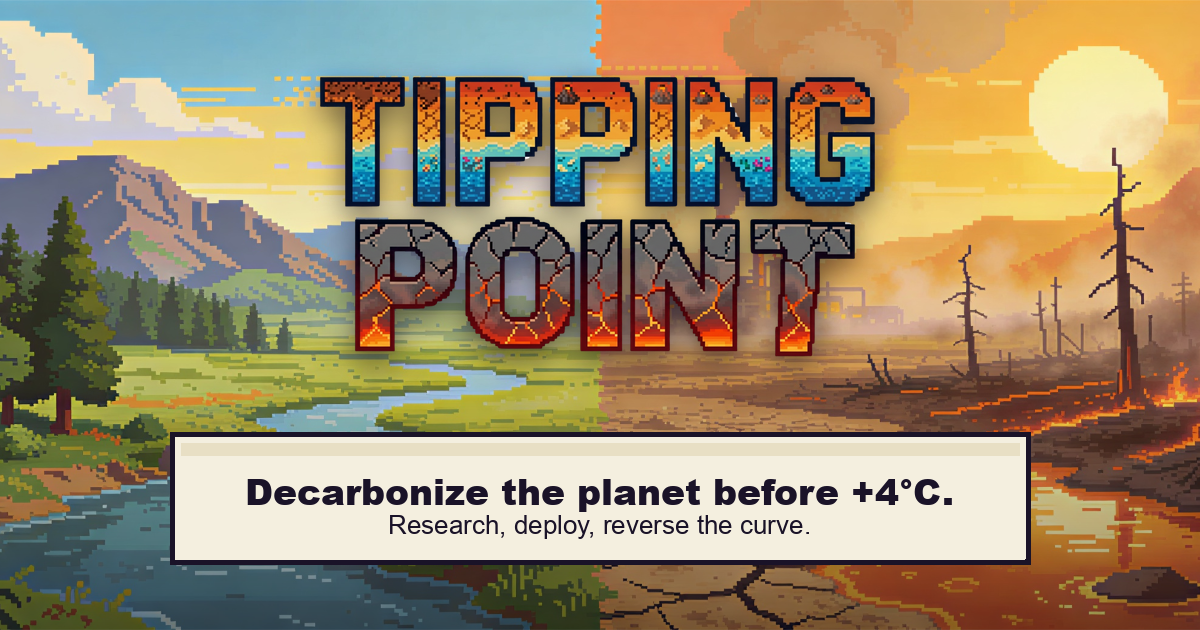
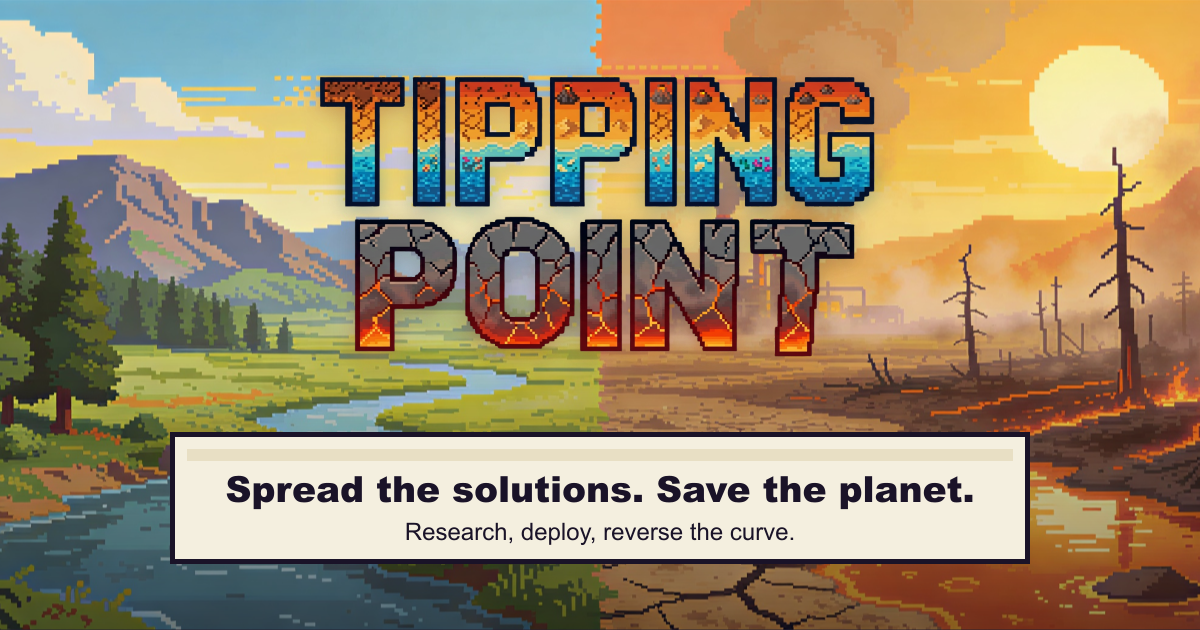
Add mobile/touch support and refresh OG image tagline
Introduces bottom-sheet drawers for the research and country panels on narrow
viewports, a portrait rotate prompt for touch devices, and touch-target
ergonomics (44px minimums) scoped behind (pointer: coarse) so desktop is
untouched. Landscape-primary is set in the webmanifest to match.

Replaces the OG image tagline "Decarbonize the planet before +4°C." with
"Spread the solutions. Save the planet." and updates the alt text + PNG.

diff --git a/src/styles/main.css b/src/styles/main.css
@@ -2759,4 +2759,215 @@
     .wildfire-layer { display: none; }
   }
 
+  /* ═══════════════════════════════════════════════════════════════════════
+     MOBILE / TOUCH SUPPORT
+     ───────────────────────────────────────────────────────────────────────
+     Every rule in this section lives inside a media query so desktop is
+     literally untouched. Three triggers:
+       - (max-width: 900px)              → narrow layout (grid collapse, drawers)
+       - (pointer: coarse)               → touch ergonomics (bigger targets)
+       - (pointer: coarse) + portrait    → block play, show rotate prompt
+     Mobile FABs + rotate overlay + drawer backdrop are hidden by default below,
+     shown only inside the mobile queries. ═══════════════════════════════ */
 
+  /* Default-hidden mobile chrome. */
+  .mobile-fab { display: none; }
+  #mobile-drawer-backdrop { display: none; }
+  #rotate-overlay { display: none; }
+
+  /* ── Rotate prompt (portrait touch only) ────────────────────────────── */
+  @media (pointer: coarse) and (orientation: portrait) {
+    #rotate-overlay {
+      position: fixed; inset: 0;
+      display: flex; align-items: center; justify-content: center;
+      padding: 40px 24px; text-align: center; z-index: 9999;
+      background: var(--surface-3); color: var(--surface-ink);
+      font-family: var(--font-body);
+      /* Safe-area padding for notched devices in portrait. */
+      padding-top: max(40px, env(safe-area-inset-top));
+      padding-bottom: max(40px, env(safe-area-inset-bottom));
+    }
+    #rotate-overlay .rotate-card {
+      max-width: 420px; background: var(--surface-2); color: var(--text);
+      border: 4px solid var(--line); padding: 28px 24px;
+      box-shadow: var(--shadow-lg);
+    }
+    #rotate-overlay .rotate-icon {
+      font-size: 64px; line-height: 1; margin-bottom: 14px;
+      color: var(--line);
+      animation: gpRotateHint 2.6s ease-in-out infinite;
+    }
+    #rotate-overlay h2 {
+      margin: 0 0 12px; font-family: var(--font-display);
+      font-size: var(--t-head); letter-spacing: 1px; color: var(--line);
+    }
+    #rotate-overlay p {
+      margin: 0; font-size: var(--t-body); line-height: 1.5;
+    }
+    /* Block all other content from being seen/interacted with. */
+    body > *:not(#rotate-overlay) {
+      pointer-events: none;
+    }
+  }
+  @keyframes gpRotateHint {
+    0%, 100% { transform: rotate(0); }
+    45%, 55% { transform: rotate(90deg); }
+  }
+
+  /* ── Touch-device globals ─────────────────────────────────────────────
+     Disable double-tap-zoom and pull-to-refresh that would otherwise
+     interfere with map drag/zoom and drawer swipes. */
+  @media (pointer: coarse) {
+    html, body {
+      touch-action: manipulation;
+      overscroll-behavior: none;
+    }
+    #map-container {
+      /* Prevent browser pan/zoom gestures on the map itself — country taps
+         still fire via click. */
+      touch-action: none;
+    }
+  }
+
+  /* ── Touch target ergonomics ─────────────────────────────────────────
+     44×44 WCAG minimum. Applied only on coarse-pointer devices so desktop
+     button sizing is preserved. */
+  @media (pointer: coarse) {
+    .modal-close { width: 44px; height: 44px; font-size: 22px; }
+    .hud-toolbtn { min-width: 44px; min-height: 44px; }
+    .hud-speed { height: 44px; }
+    .hud-speed button { min-width: 48px; }
+    .rt-tab { min-height: 44px; }
+    .starter-select-btn, .intro-cta, .intro-cta-ghost, .pick-back,
+    .again, .end-share, .end-achievements,
+    .achievements-dismiss { min-height: 44px; }
+  }
+
+  /* ── Narrow-width layout (phone landscape, tablet portrait) ──────────
+     Game grid collapses to single column. Side panels escape the grid and
+     become bottom-sheet drawers, accessed via FABs. Triggered by width
+     (not pointer), so a resized desktop window also exercises this path —
+     which is useful for devs but harmless since FABs are only shown when
+     this media query applies. */
+  @media (max-width: 900px) {
+    /* Collapse game grid to single-column stack. */
+    #game {
+      grid-template-rows: 56px 26px 1fr 28px;
+      grid-template-columns: 1fr;
+      grid-template-areas:
+        "hud"
+        "news"
+        "map"
+        "status";
+      /* Safe-area on notched phones in landscape — notch sits on the left
+         or right, so we pad horizontally. */
+      padding-left: env(safe-area-inset-left);
+      padding-right: env(safe-area-inset-right);
+    }
+
+    /* Panels leave the grid flow, become fixed-position drawers that slide
+       up from the bottom. Off-screen by default; `.mobile-open` slides in. */
+    #left-panel, #right-panel {
+      position: fixed;
+      left: 0; right: 0; bottom: 0; top: auto;
+      width: 100%;
+      height: min(78vh, 520px);
+      z-index: 40;
+      border: 3px solid var(--line);
+      border-bottom: none;
+      transform: translateY(100%);
+      transition: transform 220ms cubic-bezier(0.25, 0.45, 0.4, 1);
+      box-shadow: 0 -8px 28px rgba(0, 0, 0, 0.35);
+      /* Override the desktop's grid-area placement. */
+      grid-area: auto;
+      /* Respect safe-area at the bottom when a drawer is open. */
+      padding-bottom: env(safe-area-inset-bottom);
+    }
+    #left-panel.mobile-open,
+    #right-panel.mobile-open {
+      transform: translateY(0);
+    }
+
+    /* Backdrop behind the open drawer. Dims the game, catches dismiss taps. */
+    #mobile-drawer-backdrop {
+      display: none;
+      position: fixed; inset: 0;
+      background: rgba(0, 0, 0, 0.48);
+      z-index: 35;
+      animation: gpFadeIn 180ms ease-out;
+    }
+    #mobile-drawer-backdrop.active { display: block; }
+
+    /* FABs: floating toggles that sit above the map. Left = Research drawer,
+       right = Country drawer. Only shown when #game is active. */
+    #game.active ~ .mobile-fab {
+      display: inline-flex;
+    }
+    .mobile-fab {
+      position: fixed;
+      bottom: calc(40px + env(safe-area-inset-bottom));
+      z-index: 32;
+      align-items: center; justify-content: center;
+      min-height: 44px; padding: 8px 14px;
+      background: var(--surface-2); color: var(--line);
+      border: 3px solid var(--line);
+      font-family: var(--font-display); font-size: var(--fs-d-xs);
+      font-weight: 700; letter-spacing: 1.5px; text-transform: uppercase;
+      box-shadow: var(--shadow);
+      cursor: pointer; border-radius: 0;
+    }
+    .mobile-fab:active { box-shadow: var(--shadow-press); filter: brightness(0.94); }
+    .mobile-fab-left  { left: calc(12px + env(safe-area-inset-left)); }
+    .mobile-fab-right { right: calc(12px + env(safe-area-inset-right)); }
+    /* Hide FABs while the matching drawer is open — the drawer itself is the
+       affordance to close (tap backdrop, or swipe down later). */
+    body.drawer-open-left  .mobile-fab-left,
+    body.drawer-open-right .mobile-fab-right { display: none; }
+
+    /* HUD compaction: stats row scrolls horizontally, chips shrink.
+       Everything still reachable; just not all on screen at once. */
+    .hud { padding: 0 6px; gap: 6px; }
+    .hud-stats {
+      overflow-x: auto;
+      scrollbar-width: none;
+      -webkit-overflow-scrolling: touch;
+    }
+    .hud-stats::-webkit-scrollbar { display: none; }
+    .hud-block { padding: 4px 8px; height: 40px; min-width: 74px; }
+    .hud-block.hud-pop { min-width: 140px; }
+    .hud-block > span { font-size: var(--fs-sm); }
+
+    /* Status bar compacts. */
+    #status-bar {
+      font-size: 11px; gap: 10px; padding: 0 10px;
+      padding-left: max(10px, env(safe-area-inset-left));
+      padding-right: max(10px, env(safe-area-inset-right));
+    }
+
+    /* Modal cards: drop the playful rotation, widen to viewport. */
+    .modal-card {
+      transform: none !important;
+      max-width: calc(100vw - 24px);
+      width: calc(100vw - 24px);
+      padding: 20px 18px;
+      max-height: calc(100vh - 32px);
+      overflow-y: auto;
+    }
+    .modal-card > .modal-close { transform: none; }
+    .modal-card > .modal-close:hover  { transform: translate(-1px, -1px); }
+    .modal-card > .modal-close:active { transform: translate(1px, 1px); }
+
+    /* Tutorial, end-card, country-select tweaks. */
+    .tutorial-card, .end-card { max-width: calc(100vw - 24px); }
+  }
+  @keyframes gpFadeIn { from { opacity: 0; } to { opacity: 1; } }
+
+  /* Very narrow (<600px) — extra compaction for small phones in landscape. */
+  @media (max-width: 600px) {
+    #game { grid-template-rows: 48px 24px 1fr 24px; }
+    .hud-block label { font-size: 7px; }
+    .hud-block { padding: 3px 6px; min-width: 68px; height: 36px; }
+    .hud-block > span { font-size: 12px; }
+    #status-bar { font-size: 10px; }
+    .hud-toolbtn-sm img.hud-icon { width: 18px; height: 18px; }
+  }

diff --git a/index.html b/index.html
@@ -30,7 +30,7 @@
 <meta property="og:image:type" content="image/png" />
 <meta property="og:image:width" content="1200" />
 <meta property="og:image:height" content="630" />
-<meta property="og:image:alt" content="Tipping Point — a pixel-art landscape split down the middle: a scenic green world on the left, a smoking, cracked wasteland on the right. The game's wordmark sits across the divide above the tagline 'Decarbonize the planet before +4°C. Research, deploy, reverse the curve.'" />
+<meta property="og:image:alt" content="Tipping Point — a pixel-art landscape split down the middle: a scenic green world on the left, a smoking, cracked wasteland on the right. The game's wordmark sits across the divide above the tagline 'Spread the solutions. Save the planet. Research, deploy, reverse the curve.'" />
 <meta property="og:locale" content="en_US" />
 
 <!-- Twitter -->
@@ -38,7 +38,7 @@
 <meta name="twitter:title" content="Tipping Point — A Climate Strategy Game" />
 <meta name="twitter:description" content="Race to decarbonize the planet before +4°C. A free browser-based strategy game." />
 <meta name="twitter:image" content="https://playtippingpoint.com/og-image.png" />
-<meta name="twitter:image:alt" content="Tipping Point — a pixel-art landscape split down the middle: a scenic green world on the left, a smoking, cracked wasteland on the right. The game's wordmark sits across the divide above the tagline 'Decarbonize the planet before +4°C. Research, deploy, reverse the curve.'" />
+<meta name="twitter:image:alt" content="Tipping Point — a pixel-art landscape split down the middle: a scenic green world on the left, a smoking, cracked wasteland on the right. The game's wordmark sits across the divide above the tagline 'Spread the solutions. Save the planet. Research, deploy, reverse the curve.'" />
 
 <!-- Structured data: VideoGame -->
 <script type="application/ld+json">
@@ -104,6 +104,24 @@
 
 <!-- END SCREEN -->
 <div class="screen" id="end-screen"><div class="end-card" id="end-card"></div></div>
+
+<!-- Mobile drawer toggles (left = Research/Advisors, right = Country/Decisions).
+     Hidden on desktop via CSS; rendered for all devices so touch-landscape users
+     see them without needing JS feature detection. -->
+<button id="mobile-toggle-left"  class="mobile-fab mobile-fab-left"  type="button" aria-label="Open research and advisors panel">☰ Research</button>
+<button id="mobile-toggle-right" class="mobile-fab mobile-fab-right" type="button" aria-label="Open country and decisions panel">Country ☰</button>
+
+<!-- Backdrop for mobile drawers. Click to close. -->
+<div id="mobile-drawer-backdrop" aria-hidden="true"></div>
+
+<!-- Portrait-orientation block on touch devices. Landscape only, force on mobile. -->
+<div id="rotate-overlay" role="dialog" aria-modal="true" aria-labelledby="rotate-title">
+  <div class="rotate-card">
+    <div class="rotate-icon" aria-hidden="true">↻</div>
+    <h2 id="rotate-title">Rotate your device</h2>
+    <p>Tipping Point is designed for landscape. Turn your phone sideways to play.</p>
+  </div>
+</div>
 
 <script type="module" src="/src/main.js"></script>
 </body>

diff --git a/src/main.js b/src/main.js
@@ -654,6 +654,42 @@ function returnToSelect() {
   renderCountrySelect({ onStart: newGame, onResume: resumeGame, onLoadSlot: loadSlot });
 }
 
+// ─── Mobile drawer controller ────────────────────────────────────────────
+// On narrow viewports the CSS reclassifies #left-panel and #right-panel as
+// fixed-position bottom sheets that are off-screen until `.mobile-open`.
+// The FABs (#mobile-toggle-left/right) and the shared backdrop are only
+// painted at max-width: 900px, so this installer is a no-op on desktop —
+// the handlers attach but nothing fires because the elements are display:none.
+(function installMobileDrawers() {
+  const left     = document.getElementById('left-panel');
+  const right    = document.getElementById('right-panel');
+  const backdrop = document.getElementById('mobile-drawer-backdrop');
+  const togLeft  = document.getElementById('mobile-toggle-left');
+  const togRight = document.getElementById('mobile-toggle-right');
+  if (!left || !right || !backdrop || !togLeft || !togRight) return;
+
+  const close = () => {
+    left.classList.remove('mobile-open');
+    right.classList.remove('mobile-open');
+    backdrop.classList.remove('active');
+    document.body.classList.remove('drawer-open-left', 'drawer-open-right');
+  };
+  const open = (side) => {
+    close();
+    (side === 'left' ? left : right).classList.add('mobile-open');
+    backdrop.classList.add('active');
+    document.body.classList.add(side === 'left' ? 'drawer-open-left' : 'drawer-open-right');
+  };
+
+  togLeft.addEventListener('click',  () => open('left'));
+  togRight.addEventListener('click', () => open('right'));
+  backdrop.addEventListener('click', close);
+  document.addEventListener('keydown', (e) => {
+    if (e.key !== 'Escape') return;
+    if (left.classList.contains('mobile-open') || right.classList.contains('mobile-open')) close();
+  });
+})();
+
 // ─── Boot ────────────────────────────────────────────────────────────────
 applyAccessibilityFlags();
 // Replay-link support: ?country=DEU&seed=12345 starts that exact game. We
